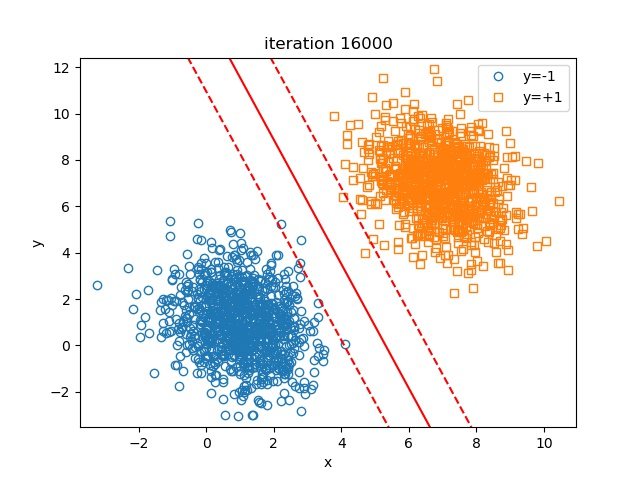
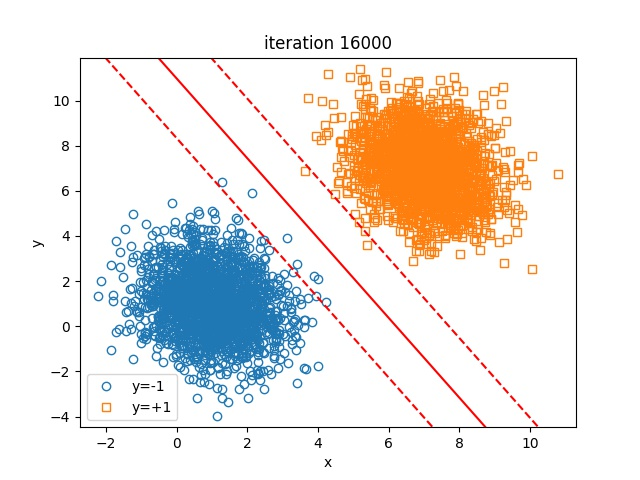
add

diff --git a/smo-svm.py b/smo-svm.py
@@ -1,0 +1,236 @@
+import numpy as np
+import matplotlib.pyplot as plt
+import os
+
+def generate_folder(path):
+	if not os.path.exists(path):
+		os.makedirs(path)
+
+	return path
+
+
+def load_data(num_samples = 1000):
+
+	x1 = np.random.multivariate_normal( [1,1], [[1,-0.3],[-0.3,2]], num_samples  )
+	x2 = np.random.multivariate_normal( [4,4], [[1,-0.3],[-0.3,2]], num_samples )
+	y1 = np.ones([num_samples]) *-1
+	y2 = np.ones([num_samples]) *1
+	x = np.concatenate([x1,x2], axis =0)
+	y = np.concatenate([y1,y2], axis =0)
+
+	return x, y
+
+
+def plot_results( x,y, params, classifier, title = "", img_save_path = None , show_img = True ):
+
+	# x_negative_1 =[]
+	# x_positive_1 =[]
+	# for ind in range(x.shape[0]):
+	# 	if y[ind] == -1:
+	# 		x_negative_1.append( x[ind] )
+	# 	else:
+	# 		x_positive_1.append( x[ind] ) 
+	# x_negative_1 = np.asarray(x_negative_1)
+	# x_positive_1 = np.asarray(x_positive_1) 
+# for each point
+	# plt.plot(x_negative_1[:,0], x_negative_1[:,1], "o", c= 'black', markerfacecolor='none')
+	# plt.plot(x_positive_1[:,0], x_positive_1[:,1], 's', c= 'black', markerfacecolor='none')
+
+	fig, ax = plt.subplots()
+
+	pred_y = classifier(x)
+
+	for ind in range(x.shape[0]):
+		if y[ind] == 1:
+			mshape = "s"
+		else:
+			mshape = "o"
+		if pred_y[ind] == 1:
+			color = "r"
+		else:
+			color = "b"
+
+		plt.plot(x[ind,0], x[ind,1], mshape, c= color, markerfacecolor='none', markeredgewidth=0.4, markersize =4)
+
+
+	x_support = params["x_support"]
+	y_support = params["y_support"]
+	pred_y_support = classifier(x_support)
+
+	for ind in range(x_support.shape[0]):
+		if y_support[ind] == 1:
+			mshape = "s"
+		else:
+			mshape = "o"
+		if pred_y_support[ind] == 1:
+			color = "r"
+		else:
+			color = "b"
+
+		if y_support[ind]!= pred_y_support[ind]:
+			# print("HAHA")
+			plt.plot(x_support[ind,0], x_support[ind,1], "o", c= "g", markersize =8, markerfacecolor='none')
+		plt.plot(x_support[ind,0], x_support[ind,1], mshape, c= color, markersize =4)
+
+
+
+	plt.xlabel("x")
+	plt.ylabel("y")
+	plt.xlim([min(x[:,0])-0.5, max(x[:,0])+0.5 ])
+	plt.ylim([min(x[:,1])-0.5, max(x[:,1])+0.5 ])
+
+	plt.title(title)
+	if img_save_path is not None:
+		plt.savefig( img_save_path )
+	if show_img:
+		plt.show()
+
+	plt.close()
+
+
+""" kernel part for SVM """
+def kernel_func(x1,x2, kernel_type=None):
+	if kernel_type is None:
+		return np.dot( x1,x2)
+	elif kernel_type["name"]=="GAUSSIAN":
+		sigma = kernel_type["params"][0]
+		return np.exp(- np.dot( x1-x2, x1-x2 )/(2*sigma**2)  )
+
+
+
+def get_kernel_matrix( x, kernel_type=None ):
+	num_samples = x.shape[0]
+	kernel_matrix = np.zeros([num_samples, num_samples])
+	for nrow in range(num_samples):
+		for ncol in range(num_samples):
+			kernel_matrix[nrow][ncol] = kernel_func(x[nrow] , x[ncol], kernel_type = kernel_type)
+	return kernel_matrix
+
+
+def smo(kernel_matrix, y, lamb, b  ,max_iter=10000,  C = np.Infinity  ):
+	num_samples = kernel_matrix.shape[0]
+
+	current_iter = 0
+	while True:
+		[inda, indb] = np.random.choice(num_samples, 2, replace = False)
+		Ea = np.dot( lamb * y, kernel_matrix[:,inda]) + b - y[inda]
+		Eb = np.dot( lamb * y, kernel_matrix[:, indb]) +b - y[indb] 
+		Eta = kernel_matrix[inda][inda] + kernel_matrix[indb][indb] - 2* kernel_matrix[inda][indb]
+
+		if Eta == 0:
+			continue
+
+		lamba_new_unclipped = lamb[inda] + y[inda]*(Eb-Ea)/Eta
+
+		## Now we deal with the Bosk constraints
+		if y[inda] == y[indb]:
+			L = max( 0, lamb[inda]+lamb[indb] - C )
+			H = min( C, lamb[inda]+lamb[indb] )
+		else:
+			L = max( 0, lamb[inda]-lamb[indb] )
+			H = min( C, lamb[inda]-lamb[indb] + C )
+
+		## get the clipped new lamba
+		if lamba_new_unclipped < L:
+			lamba_new = L
+		elif lamba_new_unclipped > H:
+			lamba_new = H
+		else:
+			lamba_new = lamba_new_unclipped
+
+		lambb_new = lamb[indb] + y[inda]*y[indb]*( lamb[inda] - lamba_new )
+		
+		lamba_old = lamb[inda]
+		lambb_old = lamb[indb]
+
+		lamb[inda] = lamba_new
+		lamb[indb] = lambb_new
+
+		## update b
+		# ba = y[inda] - np.dot( lamb*y, kernel_matrix[:, inda] ) 
+		# bb = y[indb] - np.dot( lamb*y, kernel_matrix[:, indb] )
+		ba = b - Ea + ( lamba_old- lamba_new )*y[inda]*kernel_matrix[inda][inda] + (lambb_old - lambb_new)*y[indb]*kernel_matrix[indb][inda]
+		bb = b - Eb + ( lamba_old- lamba_new )*y[inda]*kernel_matrix[inda][indb] + (lambb_old - lambb_new)*y[indb]*kernel_matrix[indb][indb]
+
+		if lamba_new >0 and lamba_new < C:
+			b = ba
+		elif lambb_new >0 and lambb_new < C:
+			b = bb
+
+		current_iter +=1
+		if current_iter >= max_iter:
+			break
+	return lamb, b
+
+
+def svm_classifier( x_support, y_support, lamb_support, b,  input_x, kernel_type= None , decision_mode= "hard" ):
+	input_x = np.array(input_x)
+	assert len(input_x.shape)==2 and len(x_support.shape)==2
+
+	def decision_func(z):
+		if decision_mode == "soft":
+			if z<-1:
+				return -1
+			elif z>1:
+				return 1
+			else:
+				return z
+		elif decision_mode == "hard":
+			if z<0:
+				return -1
+			else:
+				return 1
+
+	pred_y=[]
+	for ind in range( input_x.shape[0] ):
+		z=0
+		for j in range(x_support.shape[0]):
+			z+= lamb_support[j] * y_support[j] * kernel_func( x_support[j], input_x[ind], kernel_type = kernel_type )
+		z += b
+		pred_y.append(decision_func(z))
+
+	return np.array(pred_y)
+
+
+def train_svm( x,y, C=np.Infinity, kernel_type = None, max_epoch =100 , smo_iter_per_epoch = 10000 ,epsilon = 1e-7 , plot_training_results= False ):
+
+	kernel_matrix = get_kernel_matrix(x, kernel_type = kernel_type )
+	## initialization
+	lamb = np.zeros( x.shape[0] )
+	b = np.random.normal()
+
+	for epoch in range( max_epoch ):
+		lamb, b = smo( kernel_matrix, y, lamb, b, max_iter = smo_iter_per_epoch, C=C )
+
+		print("epoch %d"%(epoch))
+
+		if plot_training_results:
+			support_ind= np.argwhere(lamb>1e-7)[:,0]
+			x_support, y_support, lamb_support = x[support_ind], y[support_ind], lamb[support_ind]
+			params={"x_support": x_support,
+			"y_support": y_support,
+			"lamb_support": lamb_support,
+			"b": b}
+			def my_classifier( input_x, decision_mode="hard"):
+				return svm_classifier( x_support, y_support, lamb_support, b,  input_x, kernel_type= kernel_type , decision_mode= decision_mode )
+			plot_results(x,y, params, my_classifier,title= "epoch %d"%(epoch), img_save_path=generate_folder("results/smo-svm/")+"results-epoch%d.jpg"%(epoch), show_img=False  )
+
+	## only return support vectors parameters:
+	support_ind= np.argwhere(lamb>1e-7)[:,0]
+	x_support, y_support, lamb_support = x[support_ind], y[support_ind], lamb[support_ind]
+
+	def my_classifier( input_x, decision_mode="hard"):
+		return svm_classifier( x_support, y_support, lamb_support, b,  input_x, kernel_type= kernel_type , decision_mode= decision_mode )
+
+	params={"x_support": x_support,
+			"y_support": y_support,
+			"lamb_support": lamb_support,
+			"b": b}
+
+	return params, my_classifier
+
+
+
+x, y = load_data(300)
+params , my_classifier =  train_svm(x,y,C=10,  plot_training_results=True, kernel_type = {"name":"GAUSSIAN", "params":[3]})
+print(my_classifier( [[1,2]] ))

diff --git a/test_python_funcs.py b/test_python_funcs.py
@@ -1,14 +1,26 @@
 import numpy as np
-
-x_batch = np.array([[1,2],[3,4]])
-w = np.array([1,2])
-b = np.array([-10])
-y_batch = np.array([2,2])
+import matplotlib.pyplot as plt
 
 
-c=np.mean( np.expand_dims(np.maximum(1- y_batch*(np.matmul( x_batch,w )+b), 0)*y_batch, axis =-1) * x_batch, axis = 0 , keepdims = False)
-d = np.mean(np.maximum(1- y_batch*(np.matmul( x_batch,w )+b), 0)*y_batch, axis =0, keepdims = False)
 
-print(c.shape)
-print(d)
-# print(cc)
+# def kernel_func(a,b, mode):
+# 	if mode =="add":
+# 		return a+b
+# 	elif mode == "minus":
+# 		return a-b
+
+# def test(mode):
+# 	def my_kernel_func(a,b):
+# 		return kernel_func(a,b, mode)
+
+# 	return my_kernel_func
+
+
+# mm=test("minus")
+# print(mm(1,2))
+
+a=[0,0,1,1]
+b=[0,1,0,1]
+
+plt.scatter(a,b, c= np.array([[1,0,0],[0,1,0],[0,0,1],[0,0,0]]) )
+plt.show()

diff --git a/gds-svm.py b/gds-svm.py
@@ -100,9 +100,9 @@ def svm(x,y, max_iter = 100000, lr = 0.1, batch_size = 100, mylambda = 0.0001, p
 			break
 	return w,b
 
-np.random.seed(1000)
-x, y = load_data()
+# np.random.seed(1000)
+x, y = load_data(2000)
 np.random.seed()
 mylambda = 0.001
-w,b =svm(x,y, mylambda = mylambda)
+w,b =svm(x,y, mylambda = mylambda, plot_training_results = True, max_iter=500000)
 plot_results(x,y, w,b, title = "lambda=%f"%(mylambda) )

diff --git a/gds-dual-svm.py b/gds-dual-svm.py
@@ -117,7 +117,7 @@ def svm(x,y, max_iter = 100000, lr = 0.00001,  c1=10,  epsilon= 1e-5, plot_train
 	b = np.mean( y_support - np.matmul( x_support,w ))
 	return w,b
 
-np.random.seed(1000)
+# np.random.seed(1000)
 x, y = load_data(300)
 w,b =svm(x,y,max_iter = 800000,plot_training_results = True)
 plot_results(x,y, w,b )
